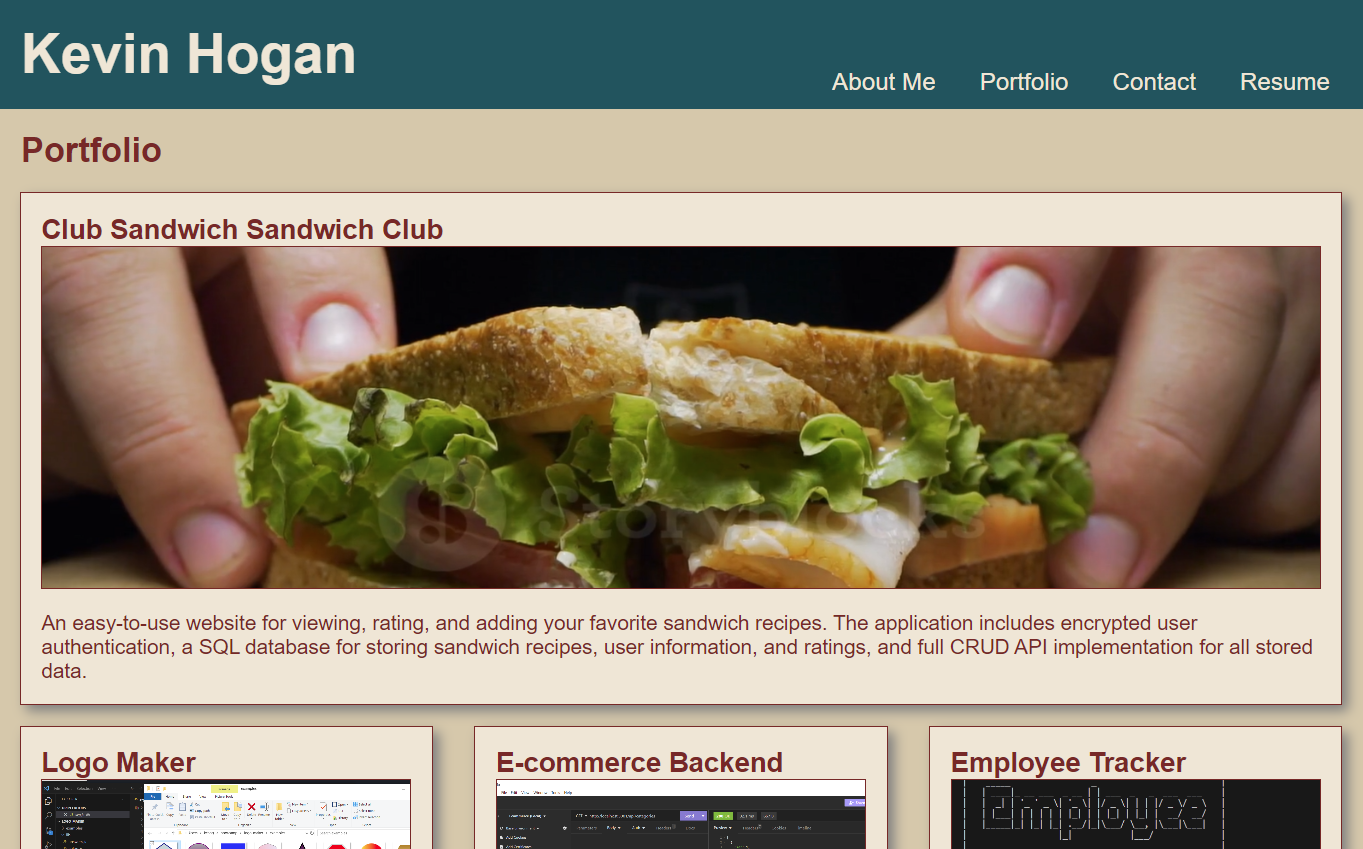
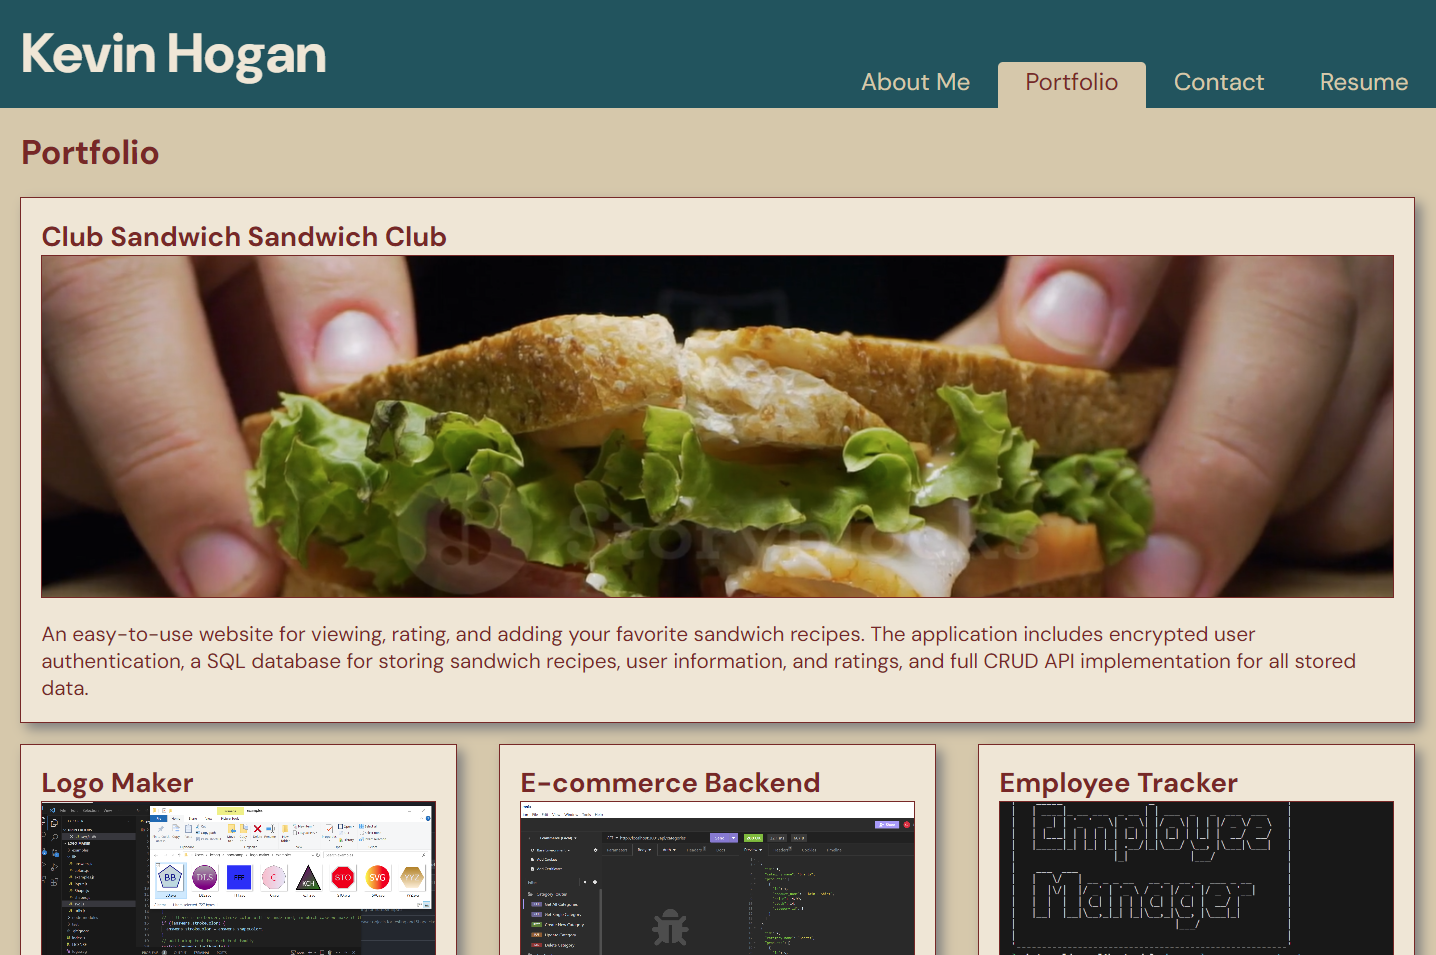
fixed small screen formatting bugs and updated reasdme

diff --git a/src/index.css b/src/index.css
@@ -62,7 +62,7 @@ header {
 }
 
 .nav-container ul {
-  text-align: end;
+  text-align: center;
   height: 1.5rem;
 }
 
@@ -354,6 +354,7 @@ header nav ul {
   padding: 0.2rem 0.3rem 0 0.3rem;
   text-decoration: none;
   color: var(--dark-tan);
+  font-size: 0.8rem;
 }
 
 .nav-link:hover{
@@ -432,6 +433,7 @@ footer img {
 
   .nav-link {
     padding: 0.2rem 1.25rem 0 1.25rem;
+    font-size: 1.1rem;
   }  
   .active {
     padding-bottom: 1rem;
@@ -439,7 +441,7 @@ footer img {
 
   .contacts #name,
   .contacts #email {
-    width: 0%;
+    width: 50%;
   }
 
 }

diff --git a/README.md b/README.md
@@ -34,8 +34,9 @@ A portfolio page built using React to demonstrate my work creating websites, dat
 * React, React-dom, Eslint-plugin-react-hooks Copyright © Meta Platforms, Inc. and affiliates.
 * React-router-dom Copyright © React Training LLC 2015-2019 Copyright © Remix Software Inc. 2020-2021 Copyright © Shopify Inc. 2022-2023
 * Eslint-plugin-react Copyright © 2014 Yannick Croissant
-* Eslint-plugin-react-refresh Copyright © Arnaud Barré (https://github.com/ArnaudBarre)
+* Eslint-plugin-react-refresh Copyright © [Arnaud Barré](https://github.com/ArnaudBarre)
 * Vite Copyright © 2019-present, Yuxi (Evan) You and Vite contributors
+* DM Sans designed by Colophon Foundry (UK), that started from the Latin portion of ITF Poppins, by Jonny Pinhorn. Licensed under the [Open Font License](https://scripts.sil.org/cms/scripts/page.php?site_id=nrsi&id=OFL).
 
 ## License
 
